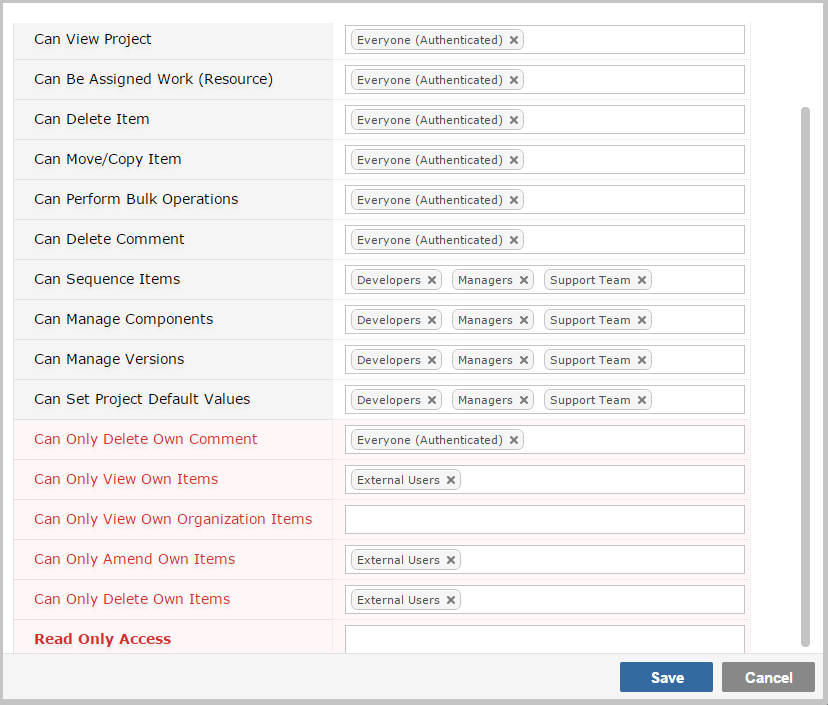
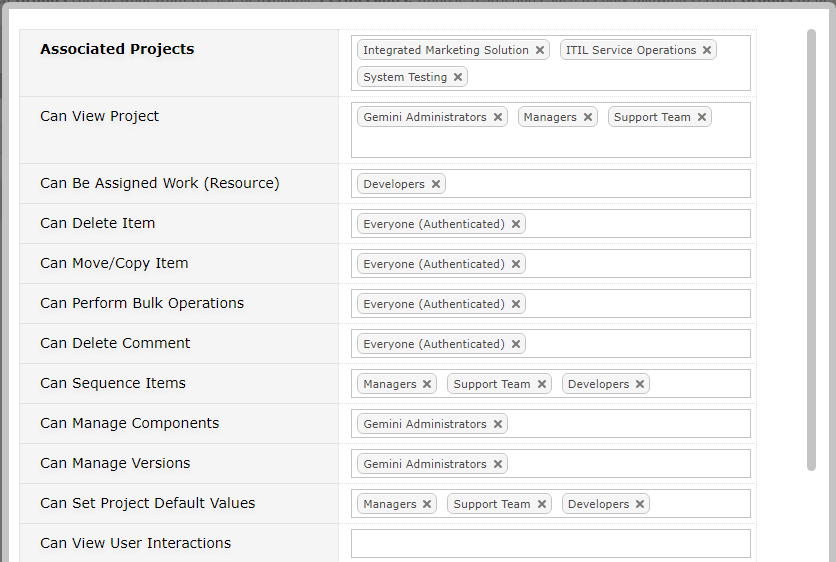
Add Read Only with Comments
Gemini 7.2 update

Changed region(s): [[0.0, 0.0, 1.0, 1.0]]

diff --git a/permission-roles/index.html b/permission-roles/index.html
@@ -13,6 +13,7 @@ title: Permission Roles
 <h2>Roles</h2>
 <p>Select which user groups receive which permissions.</p>
 <p><img src="roles.png" /></p>
+<p>Roles in red are restrictive, and where users are in groups with conflicting roles, Gemini will apply the most restrictive role.</p> 
 
 <p>The following table details all available roles.</p>
 
@@ -85,8 +86,12 @@ title: Permission Roles
 			<td>User can only delete items they have created provided the action does not break data integrity rules</td>
 		</tr>
 		<tr>
-			<td>Read Only Access</td>
+			<td>Read Only Access (No Comments)</td>
 			<td>Users can only view items, all creation and editing permissions are revoked. This restrictive permission overrides all other permissions</td>
+		</tr>
+		<tr>
+			<td>Read Only Access (Comments Allowed)</td>
+			<td>Users can only view and comment on items (introduced in Gemini 7.2). All creation and editing permissions are revoked. This restrictive permission overrides all other permissions</td>
 		</tr>
 	</tbody>
 </table>
